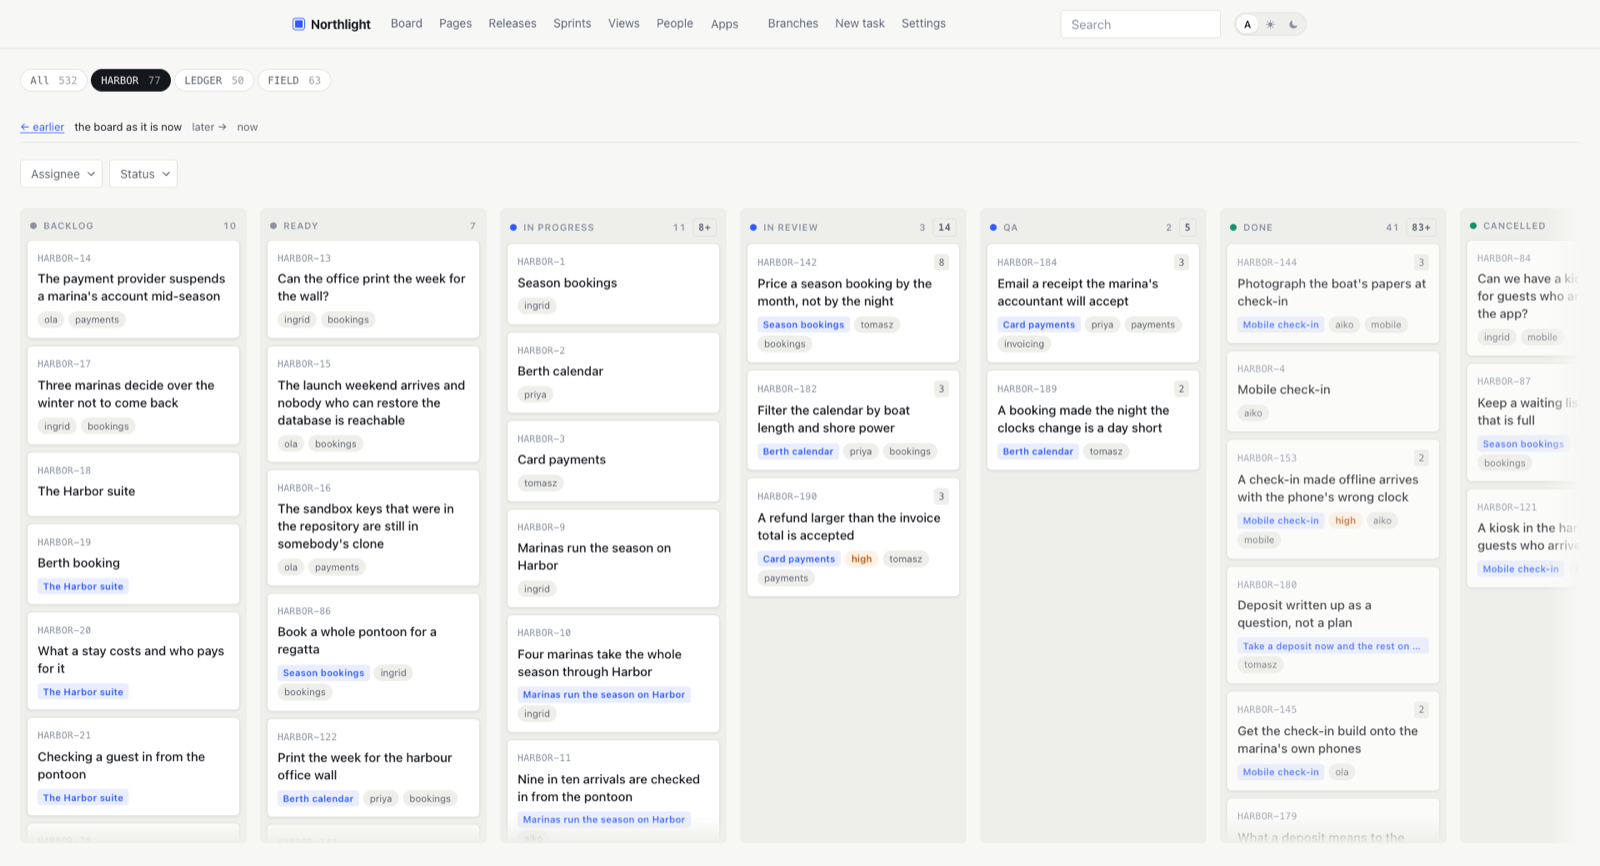
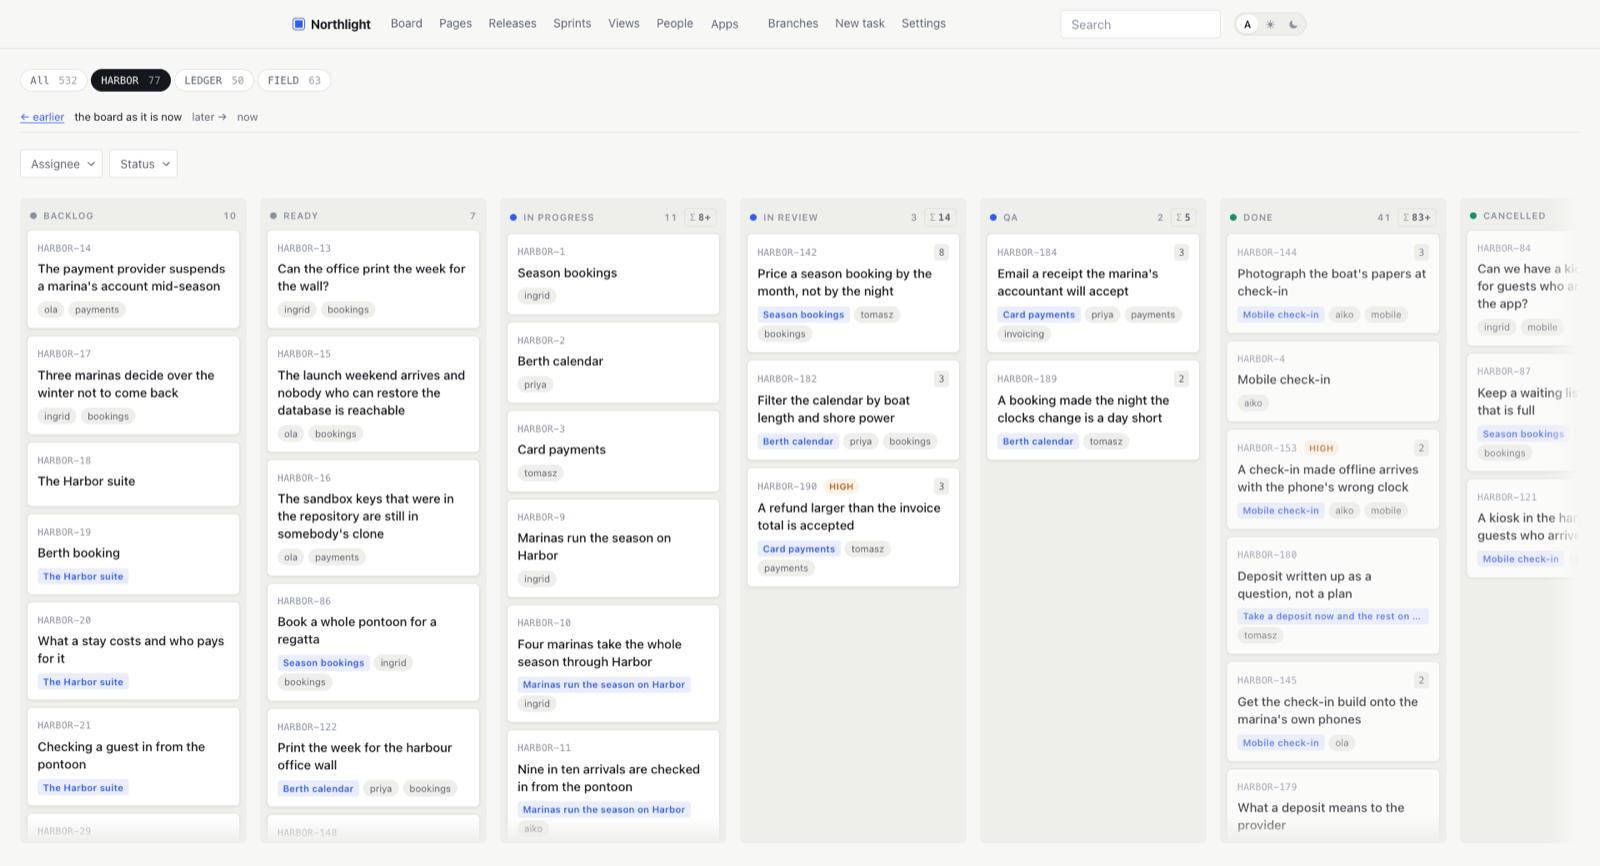
A pass with a designer's eye, and a release is a version
Seven things, all of them only visible by looking at a page rather than by
running a test.

Priority sat among the labels in the same shape, so "high" read as a label
somebody had added. It is in the card head now, with the key and the blocked
mark: that row is what the card is, the row below is what it is about.

A column head had two bare numbers side by side and no word between them. The
second is the total, and it now carries a sigma — one character that says sum.
Spelling out the unit was the first attempt and it broke "In progress" onto two
lines; a vault whose unit is "ideal days" would be worse. The unit is in the
tooltip, where there is room.

The assignee was the one editable row in a column of plain values and looked it.
It reads as a value now and becomes a field on hover or focus — and the button
beside it, which had been found by sitting next to a border, appears with it.

A phone spent a third of its screen on five rows of navigation. The bar scrolls
sideways instead, the brand sticky at the left. 180 pixels to 76.

The theme buttons had a title and no accessible name.

And the release page. A tag that is not a version is not a release: it opened
with the showcase's build marker, dated, captioned "No task changed in this
release" (DKT-65). Then the newest real release turned out to be 254 tasks
opened by default, which pushed the other four off the screen — so the newest
opens only when it is short enough to be worth opening.

diff --git a/internal/server/static/style.css b/internal/server/static/style.css
@@ -2272,3 +2272,72 @@ body > header nav .apps-menu .menu-list { z-index: 30; }
 /* The buttons an app puts on its own page. */
 .does { display: flex; align-items: center; gap: var(--s3); flex-wrap: wrap; margin-bottom: var(--s4); }
 .said.bad { color: var(--warn); }
+
+/* ---- a pass with a designer's eye, 2026-09-21 ---- */
+
+/* The assignee is the one row in the details list that is editable, and it
+ * looked it: a bordered field and a button in a column of plain values, so the
+ * eye went to the only thing on the page nobody had asked about. It reads as a
+ * value now and becomes a field when somebody means to use it. */
+.inline-set input {
+  border-color: transparent;
+  background: none;
+  padding-inline: 0.2rem;
+}
+.inline-set input:hover { border-color: var(--rule); }
+.inline-set input:focus { border-color: var(--accent); background: var(--surface); }
+.inline-set:focus-within input { padding-inline: var(--s2); }
+
+/* Priority sat in the same row as the labels, in the same shape, so "high" read
+ * as a label somebody had added. It belongs with the key and the blocked mark:
+ * that row is what the card is, the row below is what it is about. */
+.card-head .priority {
+  font-size: 0.66rem;
+  text-transform: uppercase;
+  letter-spacing: 0.04em;
+  padding: 0.05rem 0.4rem;
+}
+
+/* A phone gave five rows of navigation before the first card — a third of the
+ * screen spent on links nobody came for. The bar scrolls sideways instead, the
+ * way a tab strip does, and the brand stays put so there is always a way home.
+ * Scrollbar hidden because the overflow is obvious from the cut-off link. */
+@media (max-width: 46rem) {
+  body > header .bar {
+    flex-wrap: nowrap;
+    overflow-x: auto;
+    scrollbar-width: none;
+    gap: var(--s3);
+  }
+  body > header .bar::-webkit-scrollbar { display: none; }
+  body > header .bar > * { flex: none; }
+  /* The links live in a nav of their own, and it was that nav wrapping, not
+   * the bar: three rows inside a container that had been told not to wrap. */
+  body > header .bar > nav { flex-wrap: nowrap; }
+  body > header .bar .brand { position: sticky; left: 0; background: var(--bg); padding-right: var(--s2); }
+  body > header .bar .search { order: 99; }
+}
+
+/* Three rows of controls stood between the top of the board and the first card:
+ * the projects, where in its history the board is, and the filters. Each is
+ * worth having and none is worth a full line of air. */
+.projects { margin-bottom: var(--s3); }
+.board-head .walk { margin-block: var(--s2); }
+.board-head .finder-bar { margin-bottom: var(--s3); }
+
+/* The column total said "8+ story points", which is unambiguous and too long:
+ * it broke "In progress" onto two lines, and a vault whose unit is "ideal days"
+ * would be worse. A sigma says "this is a sum, not a second count" in one
+ * character, and the unit is in the tooltip where there is room for it. */
+.column-head .sigma { margin-right: 0.15rem; opacity: 0.55; font-weight: 400; }
+.column-head { flex-wrap: nowrap; }
+.column-head b { white-space: nowrap; }
+
+/* With the field quiet, the button beside it became a button nobody can see:
+ * it was found before by sitting next to a bordered input, and there is no
+ * border now. It appears when the row is being used and keeps its space, so
+ * nothing moves under the pointer. */
+.inline-set button { opacity: 0; transition: opacity 120ms; }
+.inline-set:hover button,
+.inline-set:focus-within button { opacity: 1; }
+.inline-set button:focus-visible { opacity: 1; }

diff --git a/internal/server/templates/board.html b/internal/server/templates/board.html
@@ -98,8 +98,8 @@
       <b>{{.Status.Name}}</b>
       <span class="count">{{.Count}}</span>
       {{if .Size}}<span class="size"
-        title="{{if .Unsized}}{{plural .Unsized "card" "cards"}} here nobody has sized{{else}}every card here is sized{{end}}"
-        >{{.Size}}{{if .Unsized}}+{{end}}</span>{{end}}
+        title="{{.Size}}{{if .Unsized}}+{{end}}{{with $data.Unit}} {{.}}{{end}} in this column{{if .Unsized}}, and {{plural .Unsized "card" "cards"}} here nobody has sized{{end}}"
+        ><span class="sigma" aria-hidden="true">&Sigma;</span>{{.Size}}{{if .Unsized}}+{{end}}</span>{{end}}
     </header>
     <div class="cards">
       {{range .Cards}}
@@ -108,13 +108,13 @@
          data-reachable="{{.Reachable}}">
         <span class="card-head">
           <span class="key">{{.Key}}</span>
+          {{if .Notable}}<span class="priority p-{{.Priority}}" title="priority">{{.Priority}}</span>{{end}}
           {{if .Blocked}}<span class="blocked" title="waiting on something unfinished">blocked</span>{{end}}
           {{if .Size}}<span class="size">{{.Size}}</span>{{end}}
         </span>
         <span class="card-title">{{.Title}}</span>
         <span class="meta">
           {{if .Epic}}<span class="epic" title="{{.EpicTitle}}">{{.EpicTitle}}</span>{{end}}
-          {{if .Notable}}<span class="priority p-{{.Priority}}">{{.Priority}}</span>{{end}}
           {{if .Assignee}}<span class="assignee">{{.Assignee}}</span>{{end}}
           {{range .Labels}}<span class="label">{{.}}</span>{{end}}
         </span>

diff --git a/internal/server/templates/layout.html b/internal/server/templates/layout.html
@@ -49,7 +49,7 @@
     {{range .Themes}}
     <button type="submit" name="theme" value="{{.Value}}"
             class="theme-pick{{if .On}} on{{end}}"
-            title="{{.Label}}"{{if .On}} aria-current="true"{{end}}>
+            title="{{.Label}}" aria-label="{{.Label}}"{{if .On}} aria-current="true"{{end}}>
       {{if eq .Value "system"}}A{{else if eq .Value "light"}}☀{{else}}☾{{end}}
     </button>
     {{end}}

diff --git a/internal/gitvcs/history.go b/internal/gitvcs/history.go
@@ -6,6 +6,7 @@ import (
 	"fmt"
 	"io"
 	"os/exec"
+	"regexp"
 	"sort"
 	"strconv"
 	"strings"
@@ -200,6 +201,23 @@ type Release struct {
 //
 // Not by name either: a version number sorts wrongly as a string, and every
 // scheme for sorting one properly is a scheme somebody's version numbers break.
+// version is what a release tag looks like: `v1.2.3`, `1.2`, `v2.0.0-rc1`.
+var version = regexp.MustCompile(`^v?[0-9]+(\.[0-9]+)*([.\-+][0-9A-Za-z.\-]+)?$`)
+
+// isVersion says whether a tag names a release.
+//
+// A repository carries tags that are not releases — a build marker, `latest`,
+// `nightly`, a bookmark somebody left — and listing them on a page headed
+// Releases said they had shipped. The showcase made it plain: its release page
+// opened with `scaffold`, the marker its generator replays onto, dated, with
+// "No task changed in this release" beneath it. A tag is a bookmark; a release
+// is a version, and this is the line between them (DKT-65).
+//
+// A team that tags releases some other way sees nothing here, which is a worse
+// failure than a stray row and is why this is written down in a decision rather
+// than buried: if it needs to be configurable, the vault should say so.
+func isVersion(tag string) bool { return version.MatchString(tag) }
+
 func (r *Repo) Releases() ([]Release, error) {
 	// One field per line rather than a separator: for-each-ref has its own
 	// format language and does not expand the %x1f that git log does, so a
@@ -227,6 +245,9 @@ func (r *Repo) Releases() ([]Release, error) {
 		stamp := lines[i+1]
 		if stamp == "" {
 			stamp = lines[i+2]
+		}
+		if !isVersion(lines[i]) {
+			continue
 		}
 		when, _ := time.Parse(time.RFC3339, stamp)
 		releases = append(releases, Release{

diff --git a/internal/server/releases.go b/internal/server/releases.go
@@ -56,9 +56,12 @@ type releaseView struct {
 	// A release page without it is a list of forty rows that has to be counted
 	// to be understood, which is the same as not being understood.
 	Says []string
-	// Open says this release is the one shown expanded. Only the newest is: a
-	// page of every release fully spelled out is a page nobody reaches the
-	// bottom of, and the newest is the one being asked about.
+	// Open says this release is the one shown expanded. Only the newest is, and
+	// only when it is short enough to read: a page of every release fully
+	// spelled out is a page nobody reaches the bottom of, and the newest can be
+	// that page on its own. The showcase's first real release was 254 tasks,
+	// which pushed the other four off the screen and turned an overview into a
+	// wall.
 	Open bool
 	// Board is the board as it stood at the tag, which is a thing git can
 	// answer exactly.
@@ -177,11 +180,16 @@ func (s *Server) releasesIn(v *space.Vault) ([]releaseView, error) {
 		}
 		view.Says = describeRelease(view)
 		view.Board = "/branch/" + url.PathEscape(tag.Name)
-		view.Open = i == 0
+		view.Open = i == 0 && len(view.Tasks) <= readableRelease
 		views = append(views, view)
 	}
 	return views, nil
 }
+
+// readableRelease is how many tasks a release can list before opening it costs
+// more than it gives. A screen's worth: enough to see what shipped without
+// scrolling past everything else on the page.
+const readableRelease = 20
 
 // describeRelease is the release in a line.
 //

diff --git a/internal/gitvcs/history_test.go b/internal/gitvcs/history_test.go
@@ -1,0 +1,25 @@
+package gitvcs
+
+import "testing"
+
+// A tag that is not a version is not a release.
+//
+// The showcase's release page used to open with `scaffold`, the marker its
+// generator replays the story onto — dated, and captioned "No task changed in
+// this release". A repository carries tags that are not releases, and a page
+// headed Releases said they had shipped (DKT-65).
+func TestOnlyAVersionTagIsARelease(t *testing.T) {
+	yes := []string{"v1.0.0", "1.0.0", "v0.5", "v2", "v1.2.3-rc1", "v1.0.0+build7", "2026.9"}
+	no := []string{"scaffold", "latest", "nightly", "release-2026-09", "v", "stable", "wip/thing"}
+
+	for _, tag := range yes {
+		if !isVersion(tag) {
+			t.Errorf("%q is a version and was not taken for one", tag)
+		}
+	}
+	for _, tag := range no {
+		if isVersion(tag) {
+			t.Errorf("%q is not a version and was taken for one", tag)
+		}
+	}
+}

diff --git a/internal/server/pages.go b/internal/server/pages.go
@@ -251,6 +251,10 @@ type boardView struct {
 	// Hidden is how many cards the filter left out, so the narrowing is a
 	// number rather than a feeling.
 	Hidden int
+	// Unit is the word estimates are in, so a column head can say "34 points"
+	// rather than a second bare number beside the card count. Two numbers with
+	// no words between them is a header nobody can read.
+	Unit string
 }
 
 // sortCards puts a column in the order somebody dragged it into.
@@ -501,6 +505,7 @@ func (s *Server) board(w http.ResponseWriter, r *http.Request, sp *space.Space, 
 		Selected: selected, Ref: ref, Walk: s.timeTravel(r),
 		Narrowed: forWhom != "" || atStatus != "",
 		Cleared:  without(r.URL, "assignee", "status"),
+		Unit:     c.Unit(),
 	}
 	for _, status := range drawn.Statuses {
 		// A status filter draws that column and no other. The columns are the
